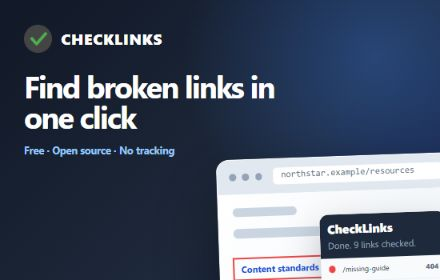
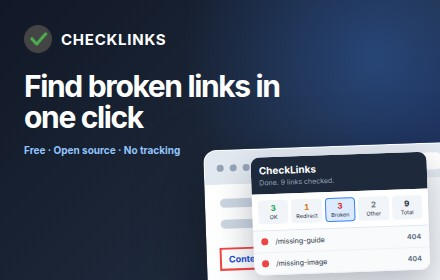
Show the new counters in the small promo art
Stop hiding the summary counters in the 440x280 promo: widen the
illustrated panel, size the five stacked counters for the small format,
and recapture the small promo tile. The marquee renders unchanged.

Claude-Session: https://claude.ai/code/session_01UjHWK3qN631iq2ZE2eEGin

diff --git a/store-assets/capture/promo.html b/store-assets/capture/promo.html
@@ -42,12 +42,16 @@
     .small .copy { position: absolute; inset: 25px 24px auto; z-index: 2; }
     .small h1 { width: 270px; margin-top: 18px; font-size: 30px; }
     .small .trust { margin-top: 12px; font-size: 10px; }
-    .small .page-card { right: -16px; bottom: -38px; width: 238px; height: 162px; transform: rotate(-2deg); }
+    .small .page-card { right: -16px; bottom: -38px; width: 250px; height: 172px; transform: rotate(-2deg); }
     .small .page-body { padding: 14px; }
-    .small .panel { right: 10px; bottom: 12px; width: 126px; }
+    .small .panel { right: 26px; bottom: 44px; width: 176px; }
     .small .panel-head { padding: 7px 8px; }
-    .small .stats { display: none; }
-    .small .result { padding: 7px 8px; font-size: 7px; }
+    .small .panel-title { font-size: 10px; }
+    .small .panel-status { font-size: 7px; }
+    .small .stats { gap: 3px; padding: 6px; }
+    .small .stat { padding: 3px 1px; border-radius: 4px; font-size: 5.5px; }
+    .small .stat b { font-size: 8px; }
+    .small .result { padding: 6px 8px; font-size: 7px; }
     .small .page-link { font-size: 9px; }
 
     .marquee .copy { position: absolute; left: 72px; top: 67px; width: 560px; z-index: 2; }
